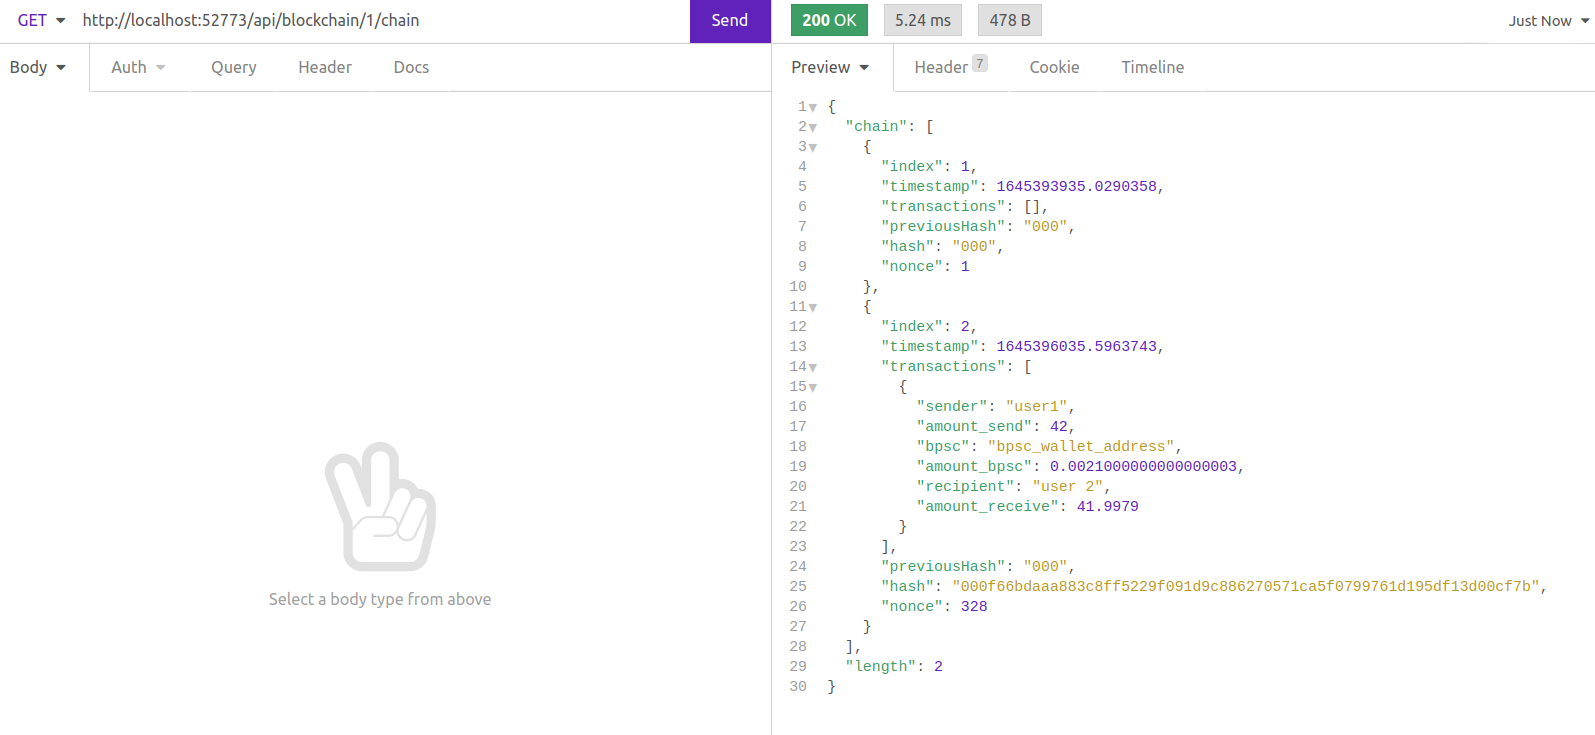
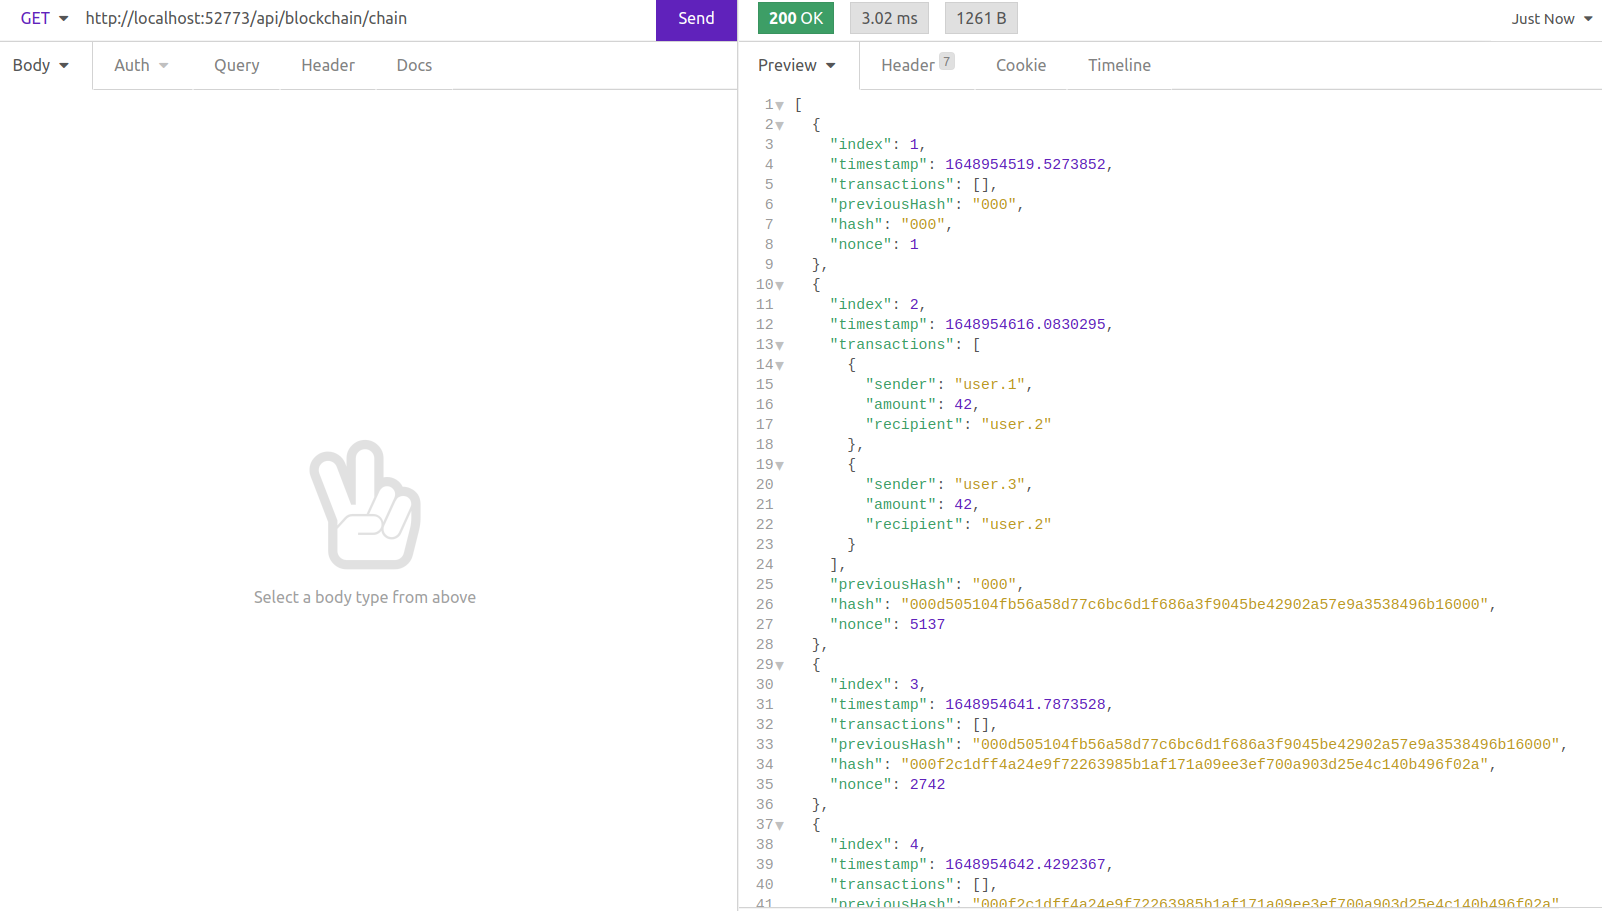
update README

diff --git a/README.md b/README.md
@@ -50,14 +50,14 @@ Run the endpoint ```curl http://localhost:52773/api/blockchain/ping``` to verify
 
 After installing the application, you can access the end-points to better understand how it works
 
-1. http://localhost:52773/api/blockchain/1/full [ GET ]
+1. http://localhost:52773/api/blockchain/chain [ GET ]
 
-Returns the current state of the blockchain and transactions that are waiting to be added to a block
+Returns the current state of blockchain
 
 Response sample:
-<img src="https://raw.githubusercontent.com/Davi-Massaru/blockchain_Iris_python/main/img/full.png"></img>
+<img src="https://raw.githubusercontent.com/Davi-Massaru/blockchain_Iris_python/main/img/chain.png"></img>
 
-2. http://localhost:52773/api/blockchain/1/transactions/new [ POST ]
+2. http://localhost:52773/api/blockchain/transactions/new [ POST ]
 
 Add a new transaction to be computed in a block, and return which block the transaction will be added
 
@@ -73,19 +73,35 @@ Request Content:
 Response sample:
 <img src="https://raw.githubusercontent.com/Davi-Massaru/blockchain_Iris_python/main/img/transactions_new.png"></img>
 
-3. http://localhost:52773/api/blockchain/1/mine [ GET ]
+3. http://localhost:52773/api/blockchain/mine [ GET ]
 
 Start mining a new block that will be added to the chain, returns added block information
 
 Response sample:
 <img src="https://raw.githubusercontent.com/Davi-Massaru/blockchain_Iris_python/main/img/mine.png"></img>
 
-4. http://localhost:52773/api/blockchain/1/chain [ GET ]
+4. http://localhost:52773/api/blockchain/block/{index} [ GET ]
 
-Returns the current state of blockchain
+Returns block information, in the given index
 
 Response sample:
-<img src="https://raw.githubusercontent.com/Davi-Massaru/blockchain_Iris_python/main/img/chain.png"></img>
+<img src="https://raw.githubusercontent.com/Davi-Massaru/blockchain_Iris_python/main/img/block.png"></img>
+
+### 
+
+You can better understand and track global content and transactions through the portal.
+
+Access http://localhost:52773/csp/sys/exp/UtilExpGlobalView.csp?$ID2=GBlockchain&$NAMESPACE=USER&$NAMESPACE=USER to see all blockchain content.
+
+<img src="https://raw.githubusercontent.com/Davi-Massaru/blockchain_Iris_python/main/img/globalGBlockchain.png"></img>
+
+Access http://localhost:52773/csp/sys/exp/UtilExpGlobalView.csp?$ID2=GBlockchain&$NAMESPACE=USER&$NAMESPACE=USER to see all blockchain content.
+
+<img src="https://raw.githubusercontent.com/Davi-Massaru/blockchain_Iris_python/main/img/globalGBlockchain.png"></img>
+
+Access http://localhost:52773/csp/sys/exp/UtilExpGlobalView.csp?$ID2=GTransactions&$NAMESPACE=USER&$NAMESPACE=USER to see all transactions made and in which blocks were mined
+
+<img src="https://raw.githubusercontent.com/Davi-Massaru/blockchain_Iris_python/main/img/globalGTransactions.png"></img>
 
 ## References:
 - https://python.plainenglish.io/implementing-a-smart-blockchain-with-python-3183e0c1052e
